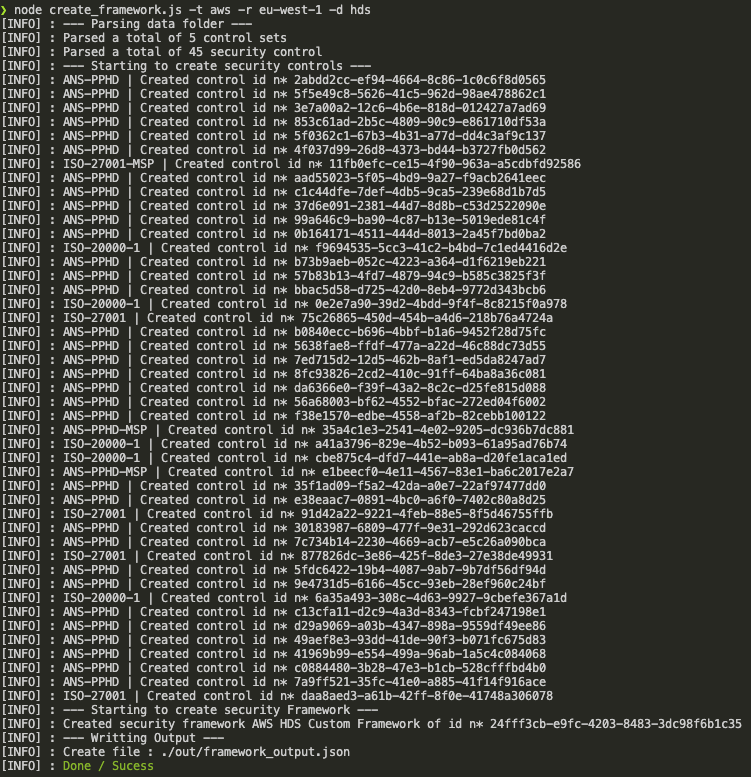
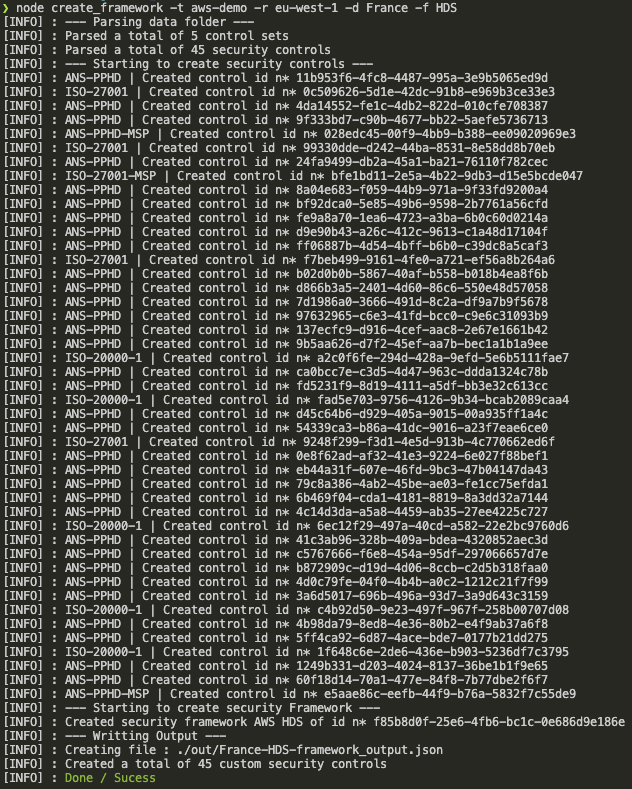
Improved readme and updated screenshots

diff --git a/src/create/create_security_control.js b/src/create/create_security_control.js
@@ -17,6 +17,7 @@ async function createSecurityControl(audit_manager, parsed_control_set_list, tag
                 .then((result) => {
                     control_set_object.controls.push({"id":result.control.id, "name":params.name})
                     logger.log(`${control_set.name} | Created control id n* ${result.control.id}`)
+                    logger.created_security_controls +=1
                 })
                 .catch((error) => {
                     logger.log(`${control_set.name} | ${error} | When creating : ${params.name}`, 1)

diff --git a/readme.md b/readme.md
@@ -57,7 +57,7 @@ Le fichier ```hds-framework_output.json``` est généré dans le dossier /out.
 
 2. Suppression d'un cadre d'évaluation personnalisé : ```node delete_framework -f <file>```
 
-Ex : ```node delete_framework -f ./out/hds-framework_output.json``` supprime l'ensemble des contrôles de sécurité ainsi que le cadre d'évaluation lié au déploiement associé au référentiel d'exigences "HDS". 
+Ex : ```node delete_framework -f ./out/France-HDS-framework_output.json -r eu-west-1``` supprime l'ensemble des contrôles de sécurité ainsi que le cadre d'évaluation lié au déploiement associé au référentiel d'exigences "HDS". 
 
 Le fichier ```hds-framework_output.json``` est supprimé.
 

diff --git a/readme-en.md b/readme-en.md
@@ -55,7 +55,7 @@ Uppon successful completion : the file ```hds-framework_output.json``` is create
 
 2. To delete a custom framework ```node delete_framework -f <file>```
 
-Ex : ```node delete_framework -f ./out/hds-framework_output.json``` will delete the security controls and the custom assessment framework generated during the creation process.
+Ex : ```node delete_framework -f ./out/France-HDS-framework_output.json -r eu-west-1``` will delete the security controls and the custom assessment framework generated during the creation process.
 
 Uppon successful completion : the file ```hds-framework_output.json``` is deleted.
 
